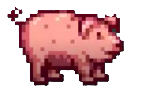
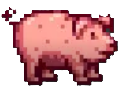
update Animais e Itens

diff --git a/index.html b/index.html
@@ -172,6 +172,16 @@
          height: 100%;
          position: absolute;
       }
+
+      .fotoAnimal {
+         width: 34px;
+         height: 34px;
+        
+         display: flex;
+         align-items: center;
+         justify-content: center;
+      }
+
       .fotoAnimal img {
          cursor: pointer;
          position: absolute;
@@ -411,12 +421,17 @@
       }
       .loveEscolhido {
          position: absolute;
-         top: 55%;
+         top: 50%;
          left: 50%;
          transform: translate(-50%, -50%);
+         display: flex;
+         align-items: center;
+         justify-content: center;
       }
       .loveEscolhido img {
          width: 33px;
+         height: 34px;
+         object-fit: scale-down;
       }
       .loveEstacao {
          position: relative;
@@ -466,9 +481,12 @@
       }
       .hateEscolhido {
          position: absolute;
-         top: 55%;
+         top: 50%;
          left: 50%;
          transform: translate(-50%, -50%);
+         display: flex;
+         align-items: center;
+         justify-content: center;
       }
       .hateEscolhido img {
          width: 33px;
